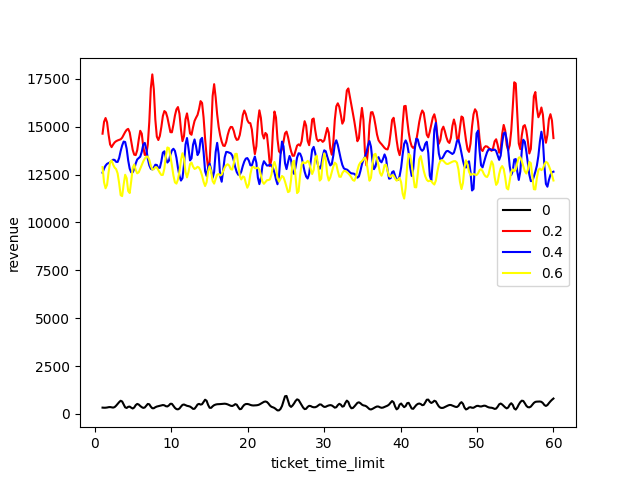
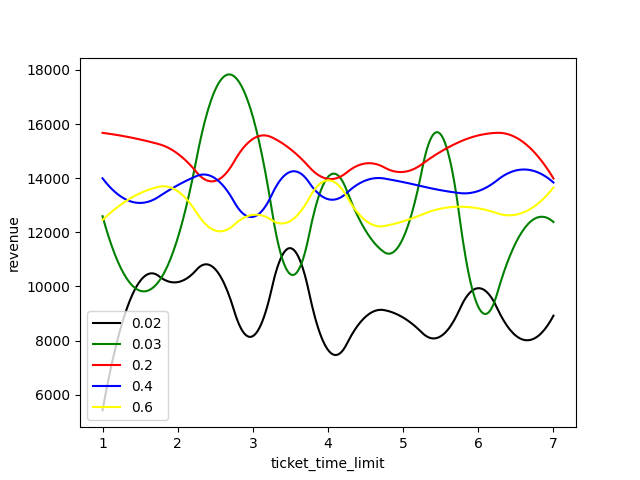
feat: remove resale rate

diff --git a/flight.py b/flight.py
@@ -22,20 +22,20 @@ class Flight:
     def revenue_management(self):
         new_price = self.norm_price
         price_increase_rate = 0
-        resale_rate = Param.resale_prob
+        # resale_rate = Param.resale_prob
         while True:
             yield self.env.timeout(Param.freq_set_price)       # the time frequency for updating ticket price
-            if resale_rate > 0.05:
-                resale_rate -= 0.01
+            # if resale_rate > 0.05:
+            #     resale_rate -= 0.01
             if self.bookings < self.num_seats:
                 # increase the price when days are going on
                 if self.env.now % 7 == 0:
                     price_increase_rate += 0.05
                 new_price = self.norm_price * (1 + price_increase_rate)
 
-                revenue_expectation = self.revenue_confirmed + self.revenue_hold_on * Param.confirm_prob + self.revenue_hold_on * Param.cancel_prob * resale_rate + self.revenue_hold_on * (1 - Param.confirm_prob - Param.cancel_prob) * (resale_rate - 0.01)
-                if revenue_expectation > self.revenue:
-                    self.revenue = revenue_expectation 
+                # revenue_expectation = self.revenue_confirmed + self.revenue_hold_on * Param.confirm_prob + self.revenue_hold_on * Param.cancel_prob * resale_rate + self.revenue_hold_on * (1 - Param.confirm_prob - Param.cancel_prob) * (resale_rate - 0.01)
+                # if revenue_expectation > self.revenue:
+                #     self.revenue = revenue_expectation 
             else:
                 new_price = 0  # no more bookings allowed
             # update the ticket price

diff --git a/plot.py b/plot.py
@@ -6,24 +6,24 @@ from scipy.interpolate import make_interp_spline
 
 class AirlineRmPlotting:
     def plot_ttl_revenue(routes):
-        confirm_prob_range = [0, 0.2, 0.4, 0.6]
-        confirm_prob_color = ["black", "red", "blue", "yellow"]
+        confirm_prob_range = [0.02, 0.03, 0.2, 0.4, 0.6]
+        confirm_prob_color = ["black", "green", "red", "blue", "yellow"]
         # Simulate with different confirm prob
         for index in range(len(confirm_prob_color)):
             Param.confirm_prob = confirm_prob_range[index]
             revenues = list()
             # Simulate with different ttl
-            for i in np.arange(1, 60.5, 0.5):
+            for i in np.arange(1, 7.5, 0.5):
                 Param.ticket_time_limit = i
                 simulation = Sim(routes, "INFO")
                 simulation.run(num_days=Param.num_days)
                 revenue = 0
                 for f in simulation.flights.values():
-                    revenue += f.revenue
+                    revenue += f.revenue_confirmed
                 revenues.append(revenue)
             # Make the curve more smooth
-            spl = make_interp_spline(np.arange(1, 60.5, 0.5), revenues, k=2)
-            x_smooth = np.linspace(1, 60, 300)
+            spl = make_interp_spline(np.arange(1, 7.5, 0.5), revenues, k=2)
+            x_smooth = np.linspace(1, 7, 300)
             y_smooth = spl(x_smooth)
             
             plt.plot(x_smooth, y_smooth, color=confirm_prob_color[index], label=Param.confirm_prob)

diff --git a/parameters.py b/parameters.py
@@ -8,4 +8,4 @@ class Parameter:
     confirm_prob = 0.5
     cancel_prob = 0.3    
 
-    resale_prob = 0.9
+    # resale_prob = 0.9
